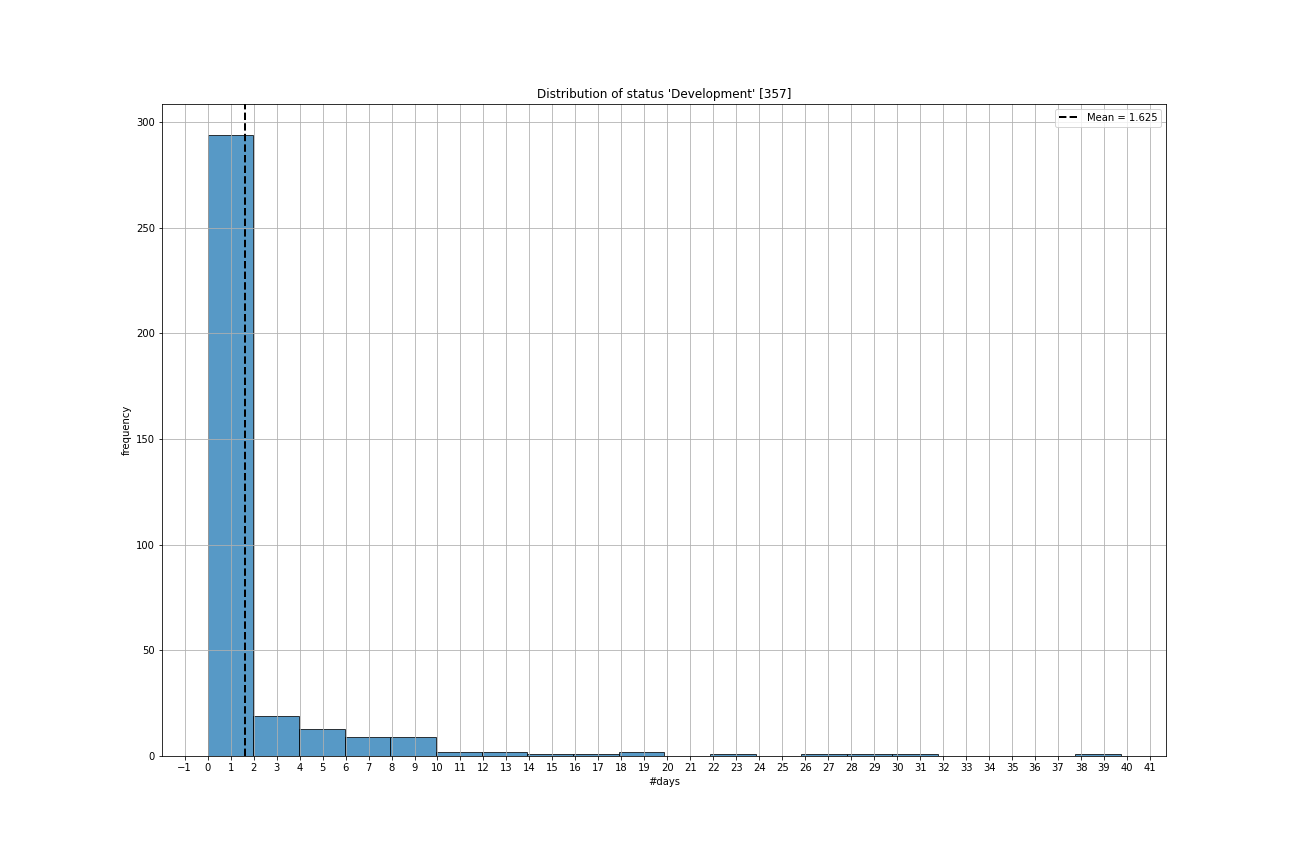
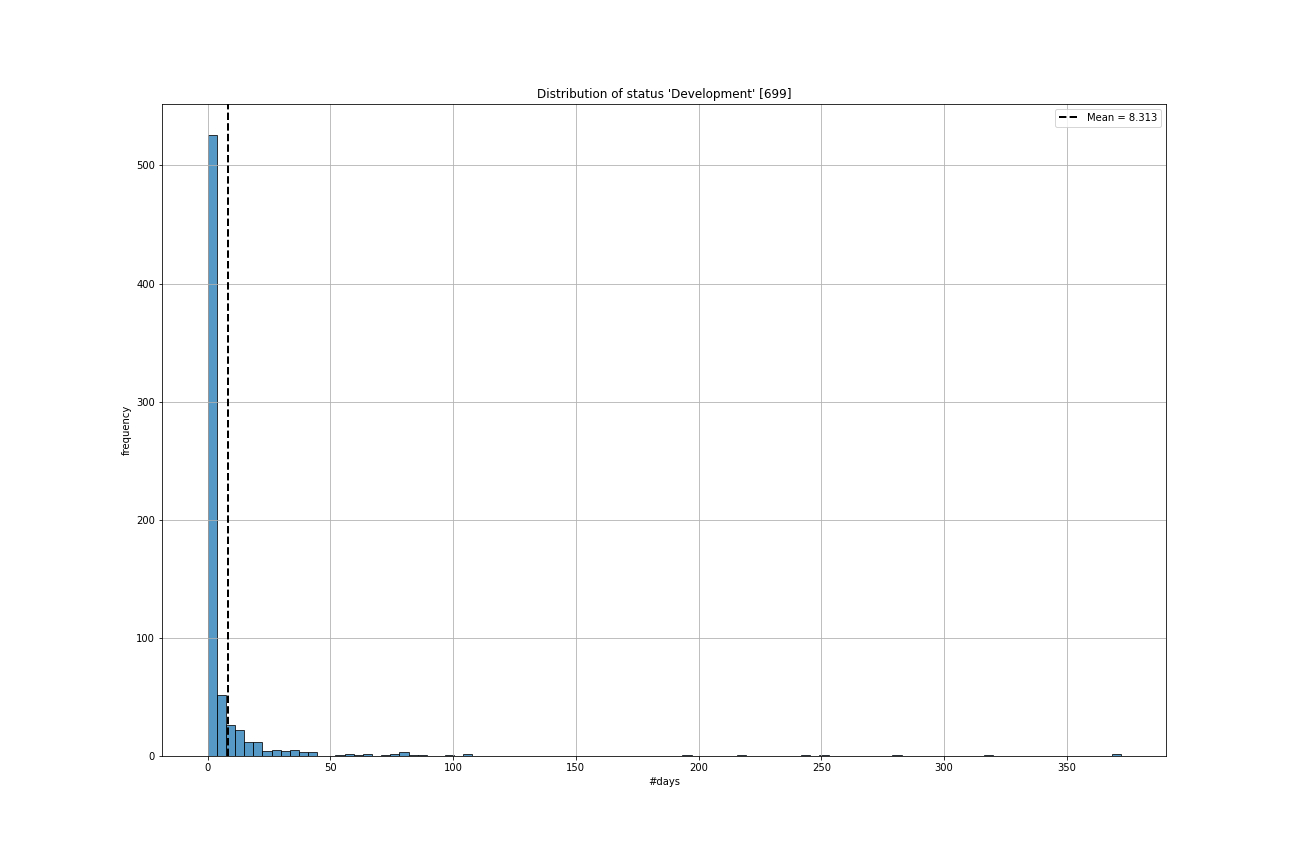
Fixed the ticket retrieval query, graph is much nicer now

diff --git a/src/compute/tickets.py b/src/compute/tickets.py
@@ -11,48 +11,53 @@ from src.config import data_root
 from src.db.utils import SnowflakeWrapper
 
 
-def get_tickets(sw: SnowflakeWrapper, interval: Interval, ticket_ids: Union[list, None] = None, resolved: bool = True) -> DataFrame:
-    tickets = f'AND t.KEY IN ({mask_in(ticket_ids)})' if ticket_ids is not None else ''
+def get_tickets(sw: SnowflakeWrapper, interval: Interval, resolved: bool = True) -> DataFrame:
     sql = (
         f"SELECT "
-        f"    s.id AS STATUS, "
-        f"    t.KEY TICKET_KEY, "
-        f'    "UniqueIssues", '
-        f'    "Issues", '
-        f'    "Reassignments", '
-        f"    AVG_DAY, "
-        f"    MAX_DAYS, "
-        f"    MIN_DAYS "
-        f"FROM "
-        f"    STATUSES s "
-        f"    LEFT JOIN ( "
-        f"        SELECT "
-        f"            t.KEY, "
-        f"            STATUS, "
-        f'            COUNT(DISTINCT t.KEY)           "UniqueIssues", '
-        f'            COUNT(*)                        "Issues", '
-        f'            "Issues" - "UniqueIssues"       "Reassignments", '
-        f"            AVG(TIMEDELTA) / (60 * 60 * 24) AVG_DAY, "
-        f"            MAX(TIMEDELTA) / (60 * 60 * 24) MAX_DAYS, "
-        f"            MIN(TIMEDELTA) / (60 * 60 * 24) MIN_DAYS "
-        f"        FROM TIMELINES t "
-        f"        INNER JOIN ISSUES i ON t.KEY = i.KEY "
-        f"        WHERE "
-        f"            DATEFROM >= {interval.fromDate()} "
-        f"            AND DATETO < {interval.toDate()} "
-        f"            AND i.FIELDS:resolution IS {'NOT' if resolved else ''} NULL "
-        f'            {tickets} '
-        f"        GROUP BY 1, 2 "
-        f"        ORDER BY 1 "
-        f"    ) t ON t.STATUS = s.id; "
+        f"  s.id AS STATUS, "
+        f"  t.KEY TICKET_KEY, "
+        f'  "IssuePriority", '
+        f'  "UniqueIssues", '
+        f'  "Issues", '
+        f'  "Reassignments", '
+        f"  AVG_DAYS, "
+        f"  MAX_DAYS, "
+        f"  MIN_DAYS, "
+        f"  AVG_HOUR, "
+        f"  MAX_HOURS, "
+        f"  MIN_HOURS "
+        f"FROM STATUSES s "
+        f"LEFT JOIN ( "
+        f"    SELECT "
+        f"      t.KEY, "
+        f"      STATUS, "
+        f'      i.FIELDS:priority:name::string "IssuePriority" ,'
+        f'      COUNT(DISTINCT t.KEY)                "UniqueIssues", '
+        f'      COUNT(*)                             "Issues", '
+        f'      "Issues" - "UniqueIssues"            "Reassignments", '
+        f"      AVG(TIMEDELTA) / (60 * 60 * 24) AVG_DAYS, "
+        f"      MAX(TIMEDELTA) / (60 * 60 * 24) MAX_DAYS, "
+        f"      MIN(TIMEDELTA) / (60 * 60 * 24) MIN_DAYS, "
+        f"      AVG(TIMEDELTA) / (60 * 60) AVG_HOUR, "
+        f"      MAX(TIMEDELTA) / (60 * 60) MAX_HOURS, "
+        f"      MIN(TIMEDELTA) / (60 * 60) MIN_HOURS "
+        f"    FROM TIMELINES t "
+        f"    INNER JOIN ISSUES i ON t.KEY = i.KEY "
+        f"    WHERE "
+        f'      t.KEY IN (SELECT DISTINCT KEY FROM CHANGELOGS WHERE DATECREATED >= {interval.fromDate()} AND DATECREATED < {interval.toDate()}) '
+        f'      AND i.FIELDS:resolution IS {"NOT" if resolved else ""} NULL '
+        f"    GROUP BY 1, 2 "
+        f"    ORDER BY 1 "
+        f"  ) t ON t.STATUS = s.id; "
     )
     # print(sql)
     df = sw.fetch_df(sql)
-    df["AVG_DAY"] = df["AVG_DAY"].map(lambda x: np.nan if x is None else float(x))
+    df["AVG_HOUR"] = df["AVG_HOUR"].map(lambda x: np.nan if x is None else float(x))
+    df["AVG_DAYS"] = df["AVG_DAYS"].map(lambda x: np.nan if x is None else float(x))
     return df
 
 
-def get_tickets_by_status(sw: SnowflakeWrapper, interval: Interval, use_cached: bool = True) -> dict:
+def get_tickets_by_status(sw: SnowflakeWrapper, interval: Interval, use_cached: bool = False) -> dict:
     fname = f"{data_root}/tickets/by_status/tickets-{interval.fname()}.pkl"
     if use_cached and os.path.isfile(fname):
         with open(fname, 'rb') as file:
